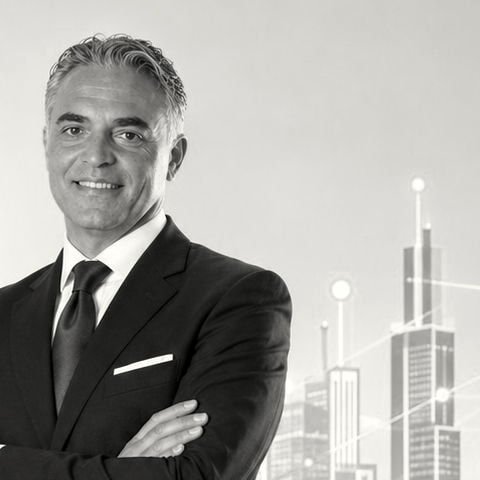
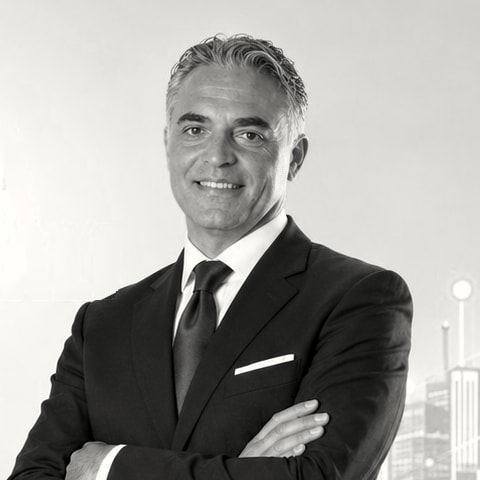
Home: ritratto di Giacomo Lenoci centrato (eccezione della direzione visiva 0.14)
L'utente (2026-10-07): «quella in basso di Giacomo non è centrata». Nell'originale il logo
«Città Digitali» sta subito a sinistra di lui, quindi un ritaglio centrato ne includeva le ultime
lettere tagliate.

- prepare-assets.mjs: ritaglio centrato 445, 36, 480 × 480. Prima del ritaglio, withoutLogo
  toglie dallo sfondo le lettere «À» e «ALI»:
  - i pixel saturati vengono riempiti con il cielo chiaro intorno;
  - dove l'ultima «I» copriva la spalla, il bordo della giacca è ricostruito dalla linea misurata
    ai due lati;
  - script deterministico, nessuno strumento generativo.
  Gli altri 8 derivati restano identici byte per byte.
- FounderTimeline: la maschera sfuma solo il bordo destro, #000 80% → transparent 100%.
- La nota AI resta.
- Decisione del creative-director: eccezione al divieto di ritocco solo per questo ritratto,
  registrata nella direzione visiva 0.14 §4.3. Il ritratto di /contatti/ non cambia.

Verifiche: catture a 1440 px 2x e a 390 px 3x senza tracce sulla spalla; astro check 0 errori;
check:seo senza problemi; axe 0 violazioni sulla Home.

Claude-Session: https://claude.ai/code/session_01NKvF9t4Po2vVKsTtpGs26Y

diff --git a/docs/creativa/direzione-visiva.md b/docs/creativa/direzione-visiva.md
@@ -3,7 +3,7 @@ titolo: Direzione visiva
 owner: creative-director
 contributi: [ui-designer, web-performance-specialist, ux-designer, brand-strategist, copywriter-brand]
 stato: in revisione
-versione: 0.13
+versione: 0.14
 aggiornato: 2026-10-07
 fonti: [docs/brief/linee-guida.md, docs/brief/brief-consolidato.md, docs/creativa/analisi-riferimento.md, docs/ux/sitemap.md, docs/contenuti/copy-deck/home.md, src/assets/images/, test tipografici, cromatici e fotografici del 2026-09-28 (Playwright 1.56, sharp 0.34), review di Fase 5 in docs/review/ (2026-09-28), docs/review/2026-09-28-sito-verdetto-g4-creative-director.md, docs/decisioni/005-preload-del-font.md, docs/strategia/coordinate-luoghi.md (0.3), docs/review/2026-09-29-sito-ricontrollo-c14-ui-designer.md, docs/review/2026-09-29-rotazione-orizzonte-mobile-ux-designer.md, docs/ux/accessibilita.md (§2.6), misure della rotazione del 2026-09-29 (Playwright, Chromium 141, build del commit 100b578), richieste dell'utente del 2026-10-05 sulla carta di Città Digitali, docs/strategia/citta-digitali-elenco.md (0.2), docs/review/2026-10-05-mappa-citta-digitali-ui-designer.md, docs/review/2026-10-05-omonimia-citta-digitali-seo-content.md (§5), build di prova della carta del 2026-10-05 (http://localhost:4333, copia di ui-designer) e controllo del creative-director con Playwright (Chromium) a 16 larghezze, docs/review/2026-10-05-carta-citta-digitali-pagina-ui-designer.md e la sua build di prova (scratchpad ui-cdpage), docs/contenuti/copy-deck/citta-digitali.md (1.2, verifica V3), docs/review/2026-10-05-carta-citta-digitali-pagina-ux-designer.md (L6, §3.4, §6), docs/review/2026-10-05-omonimia-citta-digitali-seo-content.md (O4), staging del commit c98f565 e prova in pagina di O4 (Playwright, Chromium, da 320 a 1920 px, anche con la spaziatura di WCAG 1.4.12), src/assets/images/acquaviva-digitale.webp (immagine del portale del cliente, fornita dall'utente il 2026-10-06), decisione dell'utente del 2026-10-06 sui segni grafici (riferita dalla sessione principale), docs/contenuti/alt-text.md (1.3), docs/decisioni/007-immagine-di-acquaviva-con-segni-grafici.md, prove di ritaglio del creative-director del 2026-10-06 (sharp, Playwright), richiesta dell'utente del 2026-10-06 sulla Puglia intera e sue conferme (riferite dalla sessione principale), docs/review/2026-10-06-carta-puglia-intera-ui-designer.md (P1–P5), docs/review/2026-10-06-carta-puglia-intera-ux-designer.md, docs/review/2026-10-05-legenda-mappa-copywriter-brand.md (1.3, L7), docs/strategia/citta-digitali-elenco.md (0.3, §4), docs/ux/accessibilita.md (0.7), staging dei commit b113efb e 0d106e7 e controllo del creative-director con Playwright (Chromium) da 320 a 2560 px, prova del generatore delle carte con la regola dei 6 px sulla carta d'Italia (copia nello scratchpad, 2026-10-06), docs/review/2026-10-06-regola-11-carte-ui-designer.md (R1–R3) e le sue immagini di confronto (scratchpad ui-apart), schermate SIII inviate dall'utente il 2026-10-07 (src/assets/images/siii-*.jpg), review del 2026-10-07 in docs/review/ (schermate SIII: cro-specialist, ux-designer, web-performance-specialist; carta della Terra di Bari: ux-designer; verifica di P4: ui-designer), docs/contenuti/alt-text.md (1.6), docs/contenuti/copy-deck/home.md (1.5, didascalia della foto dell'evento), staging di d3eba9c e prove del creative-director del 2026-10-07 (Playwright, Chromium: hero di /siii/ con la sala e con la facciata, ritagli 4:5 al centro, in alto e in basso; capitoli 01–03 della Home)]
 ---
@@ -87,6 +87,8 @@ Tutto il resto è tipografia e aria.
 - §4.2: la didascalia senza «regionale» e solo con l'originale dello scatto; indicazioni per i ritagli della nuova versione della foto chiesta dall'utente per la Home.
 - §1.4: la Puglia intera anche nel capitolo 02 della Home (P4, approvata dall'utente). Nessuna carta è più decorativa. La carta d'Italia della Home ha la descrizione di 199 caratteri con 5 nomi, decisa da ux-designer. La carta della Terra di Bari esce anche dal codice.
 - §7.3, riga 5, e §7.4, righe 1 e 6: allineate al sito. Decisioni richieste, punto 6: P4 decisa.
+
+**Modifiche della versione 0.14 (2026-10-07).** §4.3: eccezione per centrare il ritratto della Home, su segnalazione dell'utente («non è centrata»). Si tolgono dallo sfondo le lettere del marchio che il ritaglio taglierebbe e si usa una nuova maschera. Il ritratto di Contatti resta com'è.
 
 
 Il concept delle linee guida (spazio fisico → spazio digitale → persone → imprese → territorio) diventa quattro segni riconoscibili, più una regola tipografica.
@@ -588,7 +590,7 @@ Le quattro foto hanno fondali con skyline di grattacieli e reti luminose: è l'e
 
 | File | Decisione con (b) | Taglio (x, y, l × a) | Uso |
 |---|---|---|---|
-| `fondatore-braccia-conserte.jpg` | Usata | testa e spalle: 566, 36, 480 × 480 (1:1) | Home, chiusura della timeline, al massimo 400 px CSS |
+| `fondatore-braccia-conserte.jpg` | Usata | testa e spalle, centrata: 445, 36, 480 × 480 (1:1), con le lettere del marchio tolte dallo sfondo (eccezione del 2026-10-07, sotto). Prima: 566, 36, 480 × 480 | Home, chiusura della timeline, al massimo 400 px CSS |
 | `fondatore-in-piedi.jpg` | Usata | 470, 40, 420 × 560 (3:4) | Contatti, al massimo 320 px CSS |
 | `fondatore-palco-citta-digitali.jpg` | Scartata anche con (b) | — | Palco, platea e schermo con marchio la farebbero leggere come documentazione di un evento che non possiamo verificare; porta il simbolo ✦ |
 | `fondatore-presentazione-platea.webp` | Scartata anche con (b) | — | Stessa ragione |
@@ -599,7 +601,7 @@ Con (b), sotto ogni ritratto va una nota mono: «Immagine generata o elaborata c
 1. Luminanza pesata sul canale blu (0,15 R + 0,25 G + 0,6 B), con contrasto ×1,2 e −30: lo skyline azzurro si schiarisce quasi fino alla carta.
 2. Mappatura dei toni da `inchiostro` #141413 a `calce` #F3F1EC.
 3. Maschera CSS che fonde il lato destro nella carta, per assorbire ciò che resta dello skyline. Valori del G4, provati a 2× sui derivati (verifica UI, V6):
-   - Home, `fondatore-braccia-conserte`: `linear-gradient(to right, #000 40%, transparent 74%)`;
+   - Home, `fondatore-braccia-conserte`: `linear-gradient(to right, #000 80%, transparent 100%)` dal 2026-10-07, con il ritaglio centrato. Lì a destra resta poco skyline, in basso, e basta una sfumatura sul bordo. Prima era `#000 40%, transparent 74%`;
    - Contatti, `fondatore-in-piedi` (figura più stretta): `linear-gradient(to right, #000 36%, transparent 68%)`.
 
    Con questi valori grattacieli e linee a nodi quasi spariscono e la figura resta intera, con il bordo del braccio appena ammorbidito. Il valore iniziale (62% → 100%) e il successivo (48% → 86%) lasciavano leggibili skyline e «reti luminose».
@@ -607,6 +609,20 @@ Con (b), sotto ogni ritratto va una nota mono: «Immagine generata o elaborata c
 I derivati si generano con uno script sharp versionato nel repository; gli originali restano intatti. La sfumatura verso la carta presuppone che il ritratto stia su fondo `calce` (vedi §7).
 
 - **Mai:** versioni a colori, scontorni, ritocchi o estensioni generative, didascalie con luoghi e date, inquadrature «dal vivo sul palco».
+- **Eccezione del 2026-10-07: il ritratto della Home centrato.** L'utente ha scritto: «quella in basso di Giacomo non è centrata».
+  - **Il problema.** Il ritaglio di prima (566) stava a destra del marchio «Città Digitali», che nell'originale è subito a sinistra del fondatore. Così la testa finiva al 24% della larghezza, e la destra si scioglieva nella carta: si leggeva come un errore.
+  - **Perché il ritaglio da solo non basta.** Qualunque riquadro centrato sulla testa più largo di 240 px contiene le ultime lettere del marchio, tagliate: «À» e «ALI». A 240 px la risoluzione non regge i 400 px CSS.
+  - **Che cosa è ammesso, e niente altro.**
+    - Si tolgono le lettere del marchio che il ritaglio taglierebbe, riempiendole con il fondo chiaro circostante.
+    - Dove l'ultima «I» copriva la spalla, il bordo della giacca si ricostruisce sulla linea misurata ai due lati.
+    - Lo script sharp è deterministico e versionato in `scripts/prepare-assets.mjs`. Nessuno strumento generativo, originale intatto.
+    - Volto e figura non si toccano, e il resto dello sfondo, skyline compreso, resta com'è: lo assorbono il trattamento «inchiostro» e la maschera.
+  - **Perché è un'eccezione accettabile.**
+    - Il ritratto non è un documento (DR3-b) e lo dichiara: la nota AI resta.
+    - L'intervento toglie solo un segno grafico sovrapposto, cioè fa ciò che il ritaglio non può fare senza decentrare la figura.
+    - Non rende l'immagine più credibile come fotografia, e non cambia la persona.
+  - **Contatti no.** Il ritratto di `/contatti/` (`fondatore-in-piedi`) ha lo stesso schema, ma centrarlo vorrebbe dire togliere più lettere («TÀ» e «TALI», una sulla spalla) e lo skyline a sinistra in basso e a destra. Sarebbe un ritocco più ampio, per una pagina dove l'utente non l'ha chiesto, quindi resta com'è. Se l'utente lo chiede, si usa lo stesso metodo e il creative-director rivede il risultato.
+  - **La soluzione vera resta il ritratto reale** (opzione c, §4.6, priorità 4): toglie nota, skyline e ritocchi in un colpo solo.
 - **Alt:** «Ritratto di Giacomo Lenoci, fondatore di ITnode». `[DA VERIFICARE: nome]`
 
 ### 4.4 Logo
@@ -1151,5 +1167,5 @@ Da aggiungere, per la parte visiva:
    **Aggiornamento del G4:** il sito applica (b). Anche la foto dell'evento porta ora la nota AI (B4), quindi (a) ha perso il suo vantaggio finché non arriva l'originale. Parere: (b) con le maschere del §4.3 per il lancio, (c) appena possibile. Decide l'utente, con l'ADR 002.
 3. **Produzione fotografica dei luoghi** (6 località) **e del ritratto del fondatore**: budget e tempi. Senza, il sito va online con le varianti tipografiche (§4.5), progettate per reggere da sole.
 4. **Concept della hero** («L'orizzonte dei luoghi»): pubblica i luoghi con direzione e distanza dalla sede di Acquaviva. Doveva essere approvato al gate G2 insieme a questa direzione visiva; G2 non è mai stato approvato formalmente, quindi l'approvazione va data ora, insieme al G4.
-5. **Approvazione di questa direzione visiva (versione 0.13)** da parte dell'utente, retroattiva per il G2: è la condizione perché passi allo stato «approvato».
+5. **Approvazione di questa direzione visiva (versione 0.14)** da parte dell'utente, retroattiva per il G2: è la condizione perché passi allo stato «approvato».
 6. **Capitolo 02 della Home con la Puglia intera (P4 di ui-designer): decisa.** L'utente l'ha approvata il 2026-10-07 («sì, mettila»), e la Home la mostra dal commit 3e25c42, con la legenda e la descrizione L7. La carta della Terra di Bari non è più usata, e si toglie dal generatore e dal componente (decisione del creative-director del 2026-10-07, sulla proposta di ui-designer).

diff --git a/.claude/agent-memory/creative-director/MEMORY.md b/.claude/agent-memory/creative-director/MEMORY.md
@@ -69,6 +69,7 @@ Lezioni e preferenze. Le decisioni ufficiali stanno in `docs/creativa/` e `docs/
 - **Un'immagine per la hero si giudica accanto al titolo, non da sola** (2026-10-07). Nel foglio di confronto la facciata della reception sembrava la scelta migliore. Montata in pagina, il blu saturo toglieva il primo piano a «SIII», e a quella dimensione si vedeva il selciato stirato dalla proiezione.
 - **Il ritaglio centrato non è neutro.** Sotto i 64em conta che cosa entra nella prima schermata: si misura dove inizia l'immagine e si guarda la parte visibile. Per la sala di Masseria Santella il ritaglio ancorato in basso mostrava lo spazio; al centro c'erano mezzo logo e soffitto. Le due opzioni proposte, centro e alto, non erano le sole.
 - **Un'elaborazione non è un documento, anche se è più pulita.** La nuova foto dell'evento senza cornice e senza ✦ ha l'oratore in un'altra posa. Pulizia e veridicità sono due cose diverse: resta la nota AI, e niente didascalia con luogo e data.
+- **Un'eccezione al divieto di ritocco va tenuta stretta** (2026-10-07, ritratto della Home). Si toglie solo il segno sovrapposto che il ritaglio non può escludere senza rovinare la composizione, con uno script deterministico e solo nel caso segnalato. Per Contatti, dove la pulizia sarebbe stata più ampia, il ritratto è rimasto com'è.
 - **Le regole «opzione principale / ripiego» funzionano.** Per le coordinate la fonte a 4 decimali non era raggiungibile: il ripiego a 2 decimali, scritto nella DV, ha chiuso C11 senza un nuovo arbitrato.
 
 ## Preferenze e feedback del cliente e dell'utente
@@ -78,4 +79,5 @@ Lezioni e preferenze. Le decisioni ufficiali stanno in `docs/creativa/` e `docs/
 - **Segni grafici sulle immagini del cliente (2026-10-06).** L'utente ha voluto i pannelli e i segnaposto digitali sull'immagine di Acquaviva: «lascia i segni grafici, segnano l'aspetto digitale della città». Non riproporre di toglierli. Si propongono solo esecuzioni che li contengano, e l'eccezione non si estende ad altre immagini senza una sua decisione (ADR 007).
 - **«Pubblica prima, poi rivedete»** (2026-10-07). L'utente vuole vedere subito le novità nell'anteprima: schermate SIII, link sulla schermata degli esempi, nuova foto dell'evento. Le review arrivano dopo, quindi i verdetti devono dire che cosa correggere nel sito già pubblicato, con patch pronte.
 - **P4 approvata dall'utente** il 2026-10-07 («sì, mettila»): la Puglia intera anche nel capitolo 02 della Home.
+- **Ritratti del fondatore** (2026-10-07). L'utente guarda la composizione: ha segnalato che quello della Home «non è centrata». Una figura spostata da un lato con una sfumatura lunga gli sembra un errore, non una scelta.
 - G1–G3 non sono mai stati approvati formalmente: il lavoro ha seguito il metodo delle linee guida (§34). Al G4 ho chiesto un'approvazione retroattiva. Aggiornare dopo la risposta dell'utente.
